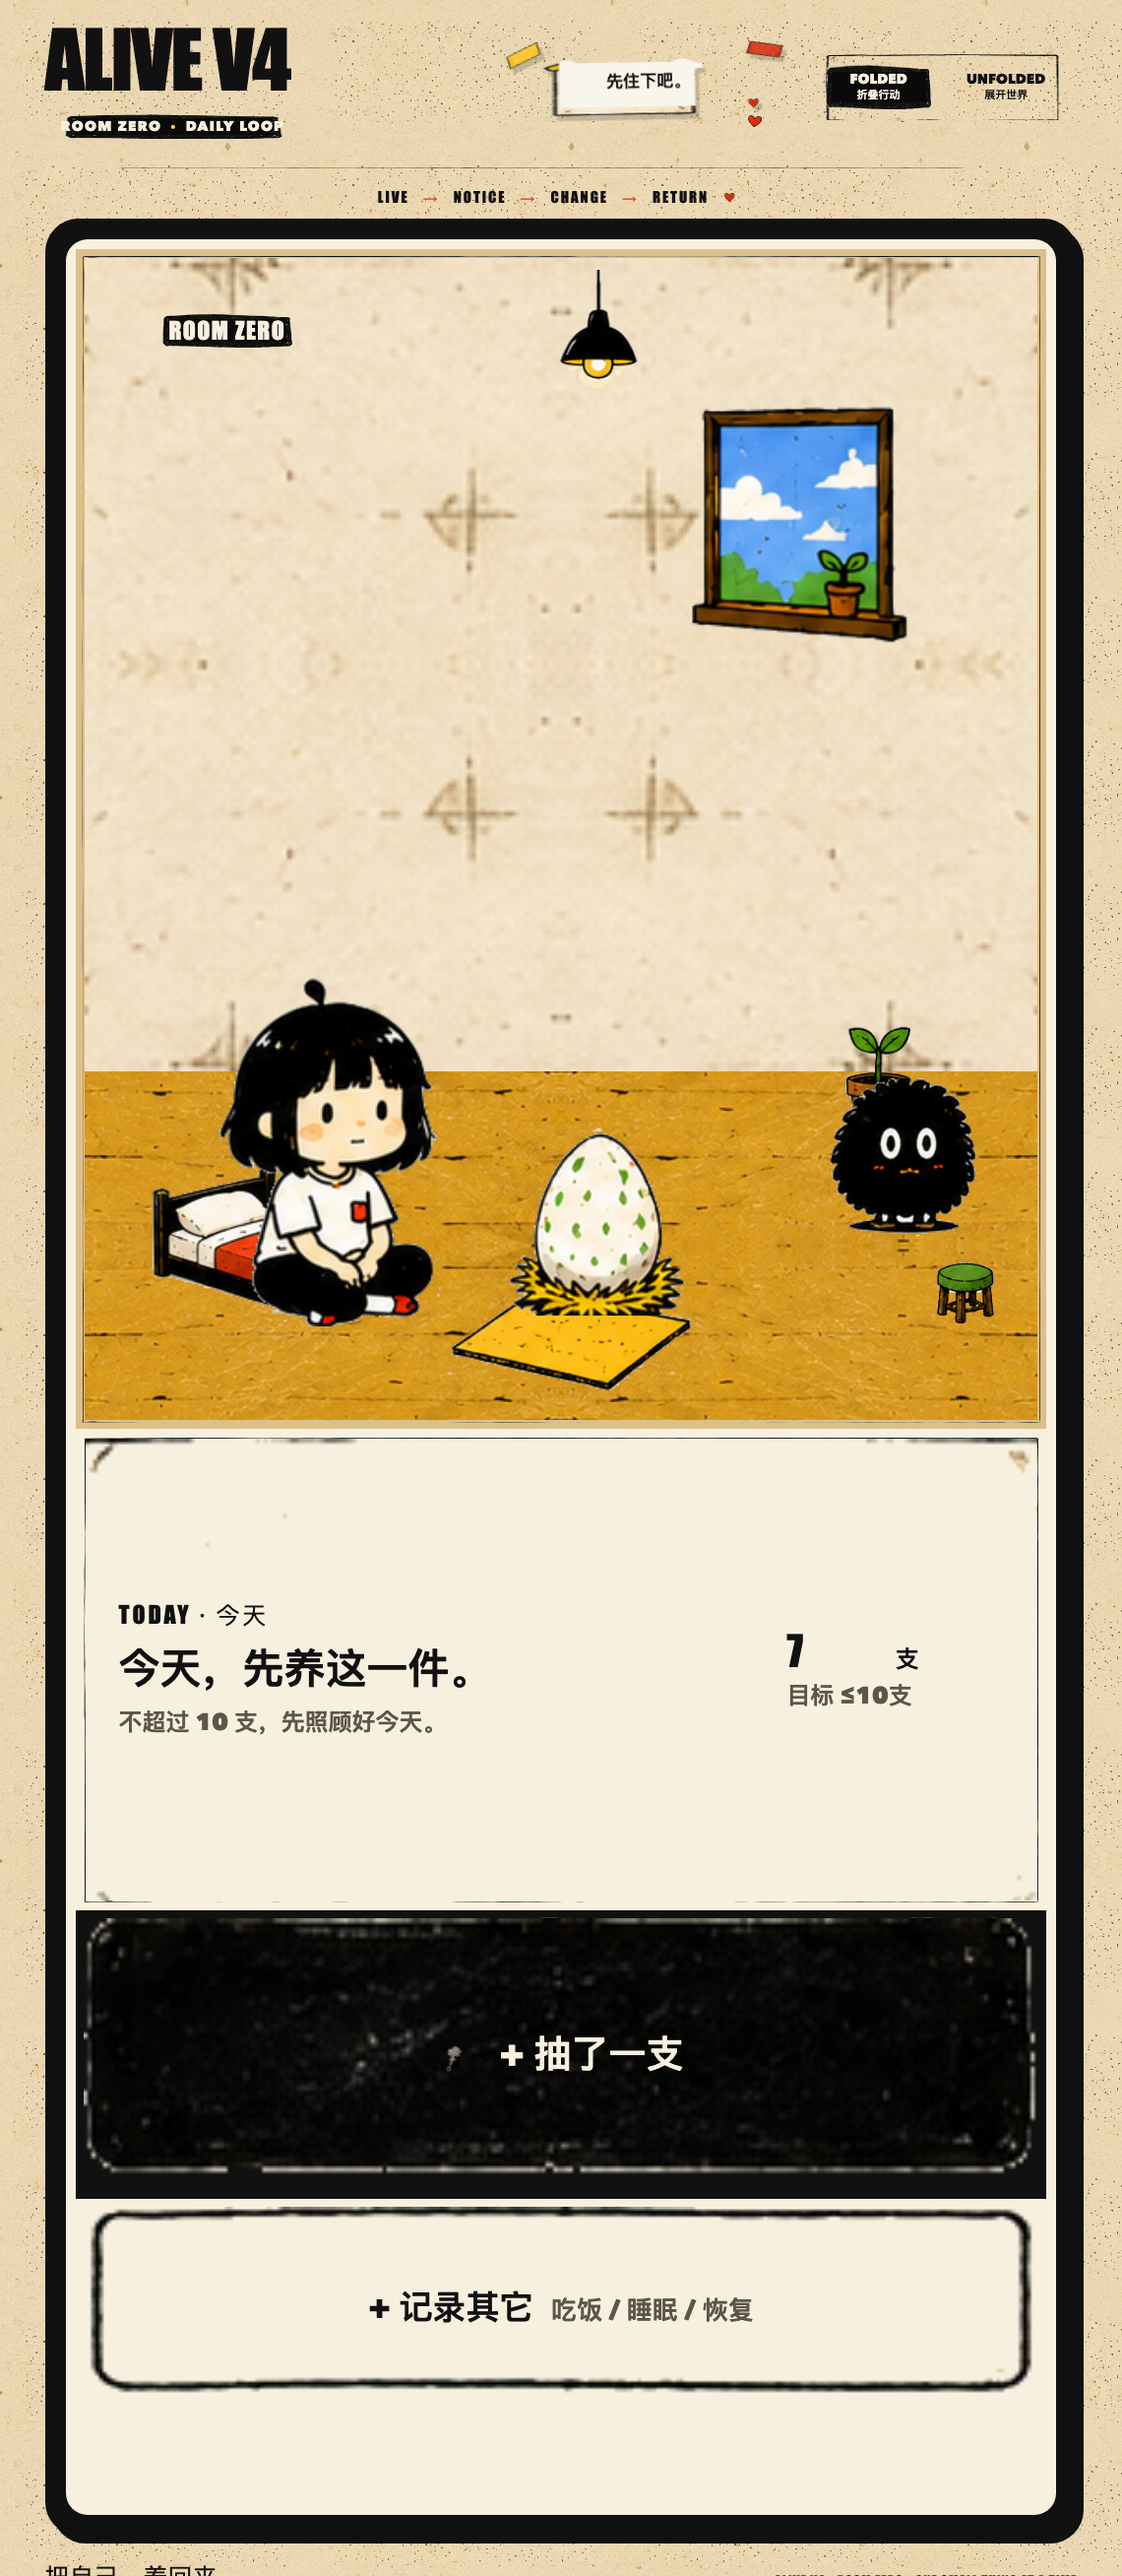
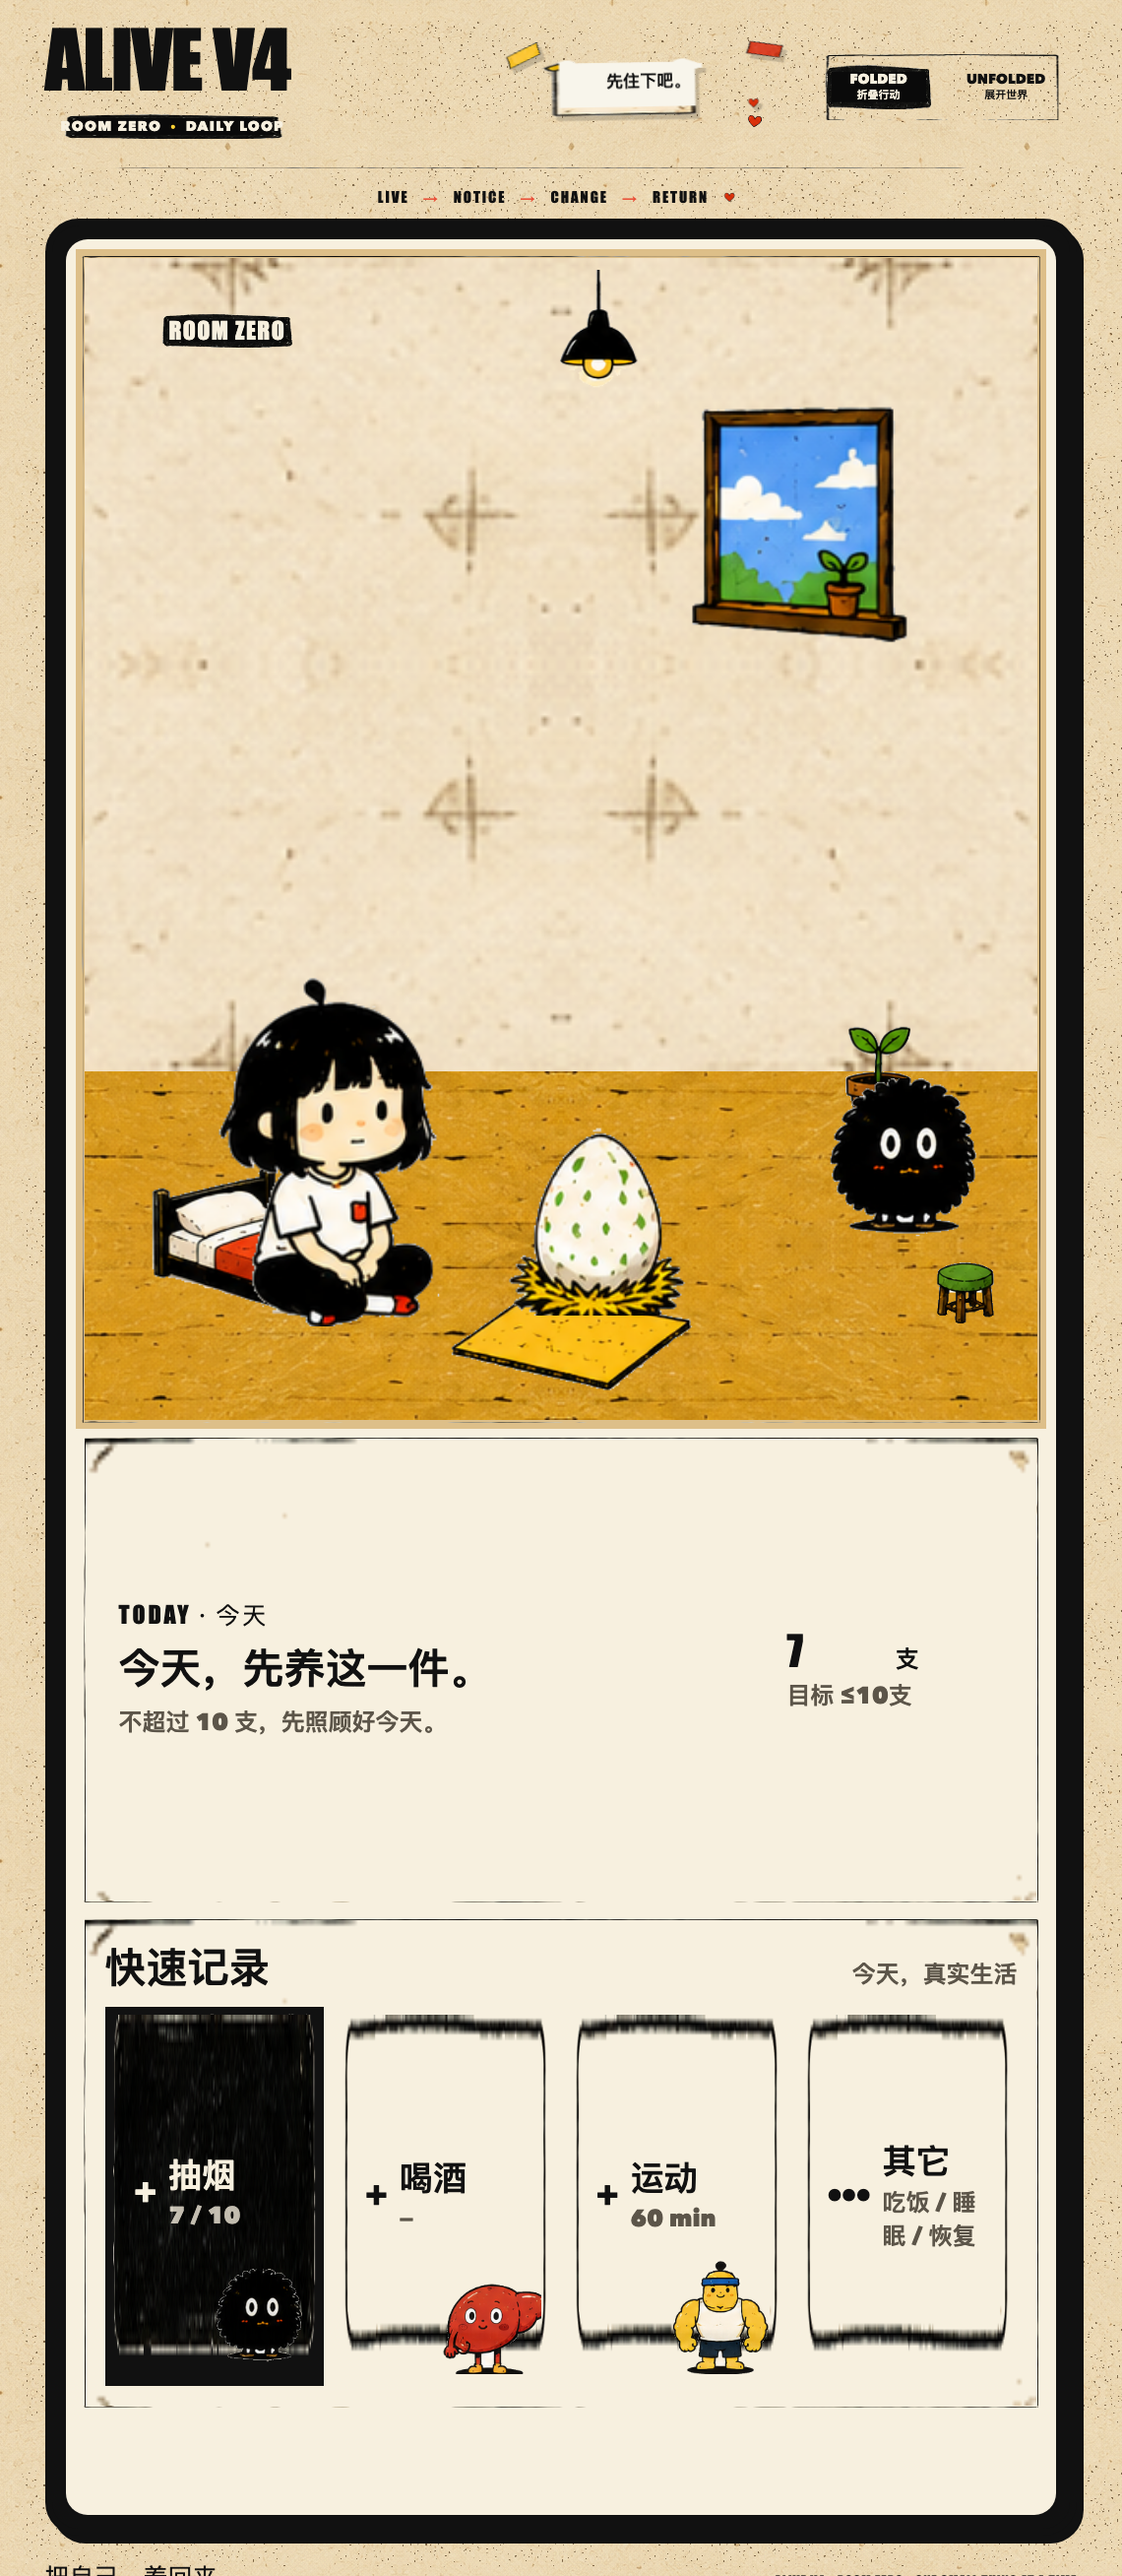
fix: refine final interaction controls

Changed region(s): [[0.0614, 0.7431, 0.9518, 0.9289]]

diff --git a/src/styles/app.css b/src/styles/app.css
@@ -92,7 +92,7 @@ img { max-width: 100%; }
 .other-record { width: 100%; margin-top: 8px; padding: 10px 12px; border: 8px solid transparent; border-image: url('../../public/assets/material/frame-button-secondary.png') 20 fill / 8px / 0 stretch; background-color: transparent; font-weight: 900; text-align: left; }
 .other-record span { margin-right: 7px; font-family: var(--font-display); font-size: 24px; } .other-record small { margin-left: 8px; color: var(--muted); font-weight: 700; }
 
-.status-column { grid-column: 2; grid-row: 1; display: grid; grid-template-rows: minmax(0, 1.35fr) minmax(0, .65fr); align-content: stretch; gap: 12px; min-width: 0; width: 100%; height: 100%; overflow: hidden; }
+.status-column { grid-column: 2; grid-row: 1; display: grid; grid-template-rows: minmax(0, 1.45fr) minmax(0, .55fr); align-content: stretch; gap: 12px; min-width: 0; width: 100%; height: 100%; overflow: hidden; }
 .status-card, .mood-card, .seed-card { min-height: 0; height: 100%; padding: 24px 28px; border: 10px solid transparent; border-image: url('../../public/assets/material/frame-panel.png') 24 fill / 10px / 0 stretch; background-color: var(--paper); }
 .status-card { display: flex; flex-direction: column; }
 .status-row { display: flex; justify-content: space-between; gap: 9px; padding: 21px 0 18px; background-image: url('../../public/assets/material/divider-handdrawn.png'); background-position: center top; background-size: 100% 8px; background-repeat: no-repeat; font-size: clamp(16px, 1vw, 25px); }
@@ -106,10 +106,13 @@ img { max-width: 100%; }
 .status-card h2 { font-size: clamp(40px, 2.4vw, 48px); }
 .mood-card h2 { margin-bottom: 10px; font-size: clamp(40px, 2.4vw, 48px); }
 .moods { display: grid; grid-template-columns: repeat(3, 1fr); gap: 9px; }
-.mood-card .moods { flex: 1; align-items: stretch; gap: 14px; }
-.mood { min-height: var(--action-mood); border: 8px solid transparent; border-image: url('../../public/assets/material/frame-button-secondary.png') 20 fill / 8px / 0 stretch; background-color: transparent; font-size: var(--type-button); font-weight: 900; }
+.mood-card .moods { flex: 0 0 auto; align-items: center; gap: 14px; }
+.mood { display: flex; flex-direction: column; justify-content: center; align-items: center; gap: 5px; width: clamp(112px, 7vw, 150px); aspect-ratio: 1; min-height: 0; padding: 12px; border: 0; border-radius: 50%; background-color: transparent; font-weight: 900; }
 .mood:hover { transform: translateY(-3px); box-shadow: 3px 3px 0 var(--ink); }
 .mood.good { background-color: #a4c870; } .mood.okay { background-color: #f5cc53; } .mood.bad { background-color: #ee806b; }
+.mood-face { font-size: clamp(46px, 4.2vw, 64px); line-height: .95; }
+.mood-label { font-size: clamp(26px, 2.2vw, 36px); line-height: 1; }
+.mood-card .seed-chip { margin-top: 12px; padding-top: 10px; }
 .seed-chip { display: flex; align-items: center; gap: 8px; margin-top: 15px; padding-top: 12px; background-image: url('../../public/assets/material/divider-handdrawn.png'); background-position: center top; background-size: 100% 8px; background-repeat: no-repeat; }
 .seed-chip img { width: 40px; height: 48px; object-fit: contain; }
 .seed-chip b { font-family: var(--font-display); font-size: var(--type-primary); } .seed-chip small { color: var(--muted); font-size: var(--type-secondary); font-weight: 750; }
@@ -118,13 +121,13 @@ img { max-width: 100%; }
 .bottom-nav { display: grid; grid-template-columns: repeat(4, 1fr); border-top: 0; background-color: var(--paper); background-image: url('../../public/assets/material/divider-handdrawn.png'); background-position: center top; background-size: 100% 12px; background-repeat: no-repeat; padding-top: 12px; }
 .bottom-nav { height: 100%; }
 [data-screen-mode="folded"] .bottom-nav { display: none; }
-.nav-item { display: flex; justify-content: center; align-items: center; gap: 18px; min-height: 120px; border: 0; border-right: 1.5px solid rgba(17,17,17,.3); background: transparent; font-size: clamp(34px, 2.5vw, 42px); font-weight: 950; }
+.nav-item { display: flex; flex-direction: column; justify-content: center; align-items: center; gap: 12px; min-height: 120px; border: 0; border-right: 1.5px solid rgba(17,17,17,.3); background: transparent; font-size: clamp(30px, 2.3vw, 38px); font-weight: 950; }
 .nav-item:last-child { border-right: 0; } .nav-item.is-active { background-color: var(--yellow); }
-.nav-icon { width: 26px; height: 26px; display: inline-block; border: 3px solid var(--ink); background: var(--paper); } .nav-icon.house { transform: rotate(45deg); } .nav-icon.discover { border-radius: 50%; } .nav-icon.story { border-radius: 3px 12px 3px 12px; } .nav-icon.me { border-radius: 50%; }
+.nav-icon { width: 46px; height: 46px; display: inline-block; border: 4px solid var(--ink); background: var(--paper); } .nav-icon.house { transform: rotate(45deg); } .nav-icon.discover { border-radius: 50%; } .nav-icon.story { border-radius: 5px 18px 5px 18px; } .nav-icon.me { border-radius: 50%; }
 .footer-caption { display: flex; justify-content: space-between; gap: 20px; align-items: baseline; padding-top: 24px; font-family: var(--font-display); } .footer-caption span { font-size: 25px; } .footer-caption small { letter-spacing: .07em; }
 
 [data-mode="folded"] .unfolded-display { display: none; }
-[data-mode="folded"] .folded-display { display: grid; grid-template-rows: var(--screen-folded-room-fr) var(--screen-folded-focus-fr) var(--screen-folded-primary-fr) var(--screen-folded-secondary-fr); gap: 0; min-height: 0; height: 100%; padding: 10px 10px var(--screen-folded-safe); align-items: stretch; }
+[data-mode="folded"] .folded-display { display: grid; grid-template-rows: var(--screen-folded-room-fr) var(--screen-folded-focus-fr) var(--screen-folded-actions-fr); gap: 0; min-height: 0; height: 100%; padding: 10px 10px var(--screen-folded-safe); align-items: stretch; }
 [data-mode="folded"] .folded-scene { min-height: 0; height: 100%; }
 [data-mode="folded"] .folded-scene .room-scene { width: 100%; height: 100%; aspect-ratio: auto; max-height: none; }
 [data-mode="folded"] .folded-scene .room-label { top: 4%; left: 7%; }
@@ -154,6 +157,17 @@ img { max-width: 100%; }
 [data-mode="folded"] .folded-focus .focus-meter small { grid-column: 1 / -1; color: var(--muted); font-size: var(--type-secondary); font-weight: 800; }
 [data-mode="folded"] .focus-copy p { font-size: var(--type-secondary); }
 [data-mode="folded"] .focus-meter { display: block; flex-basis: 200px; }
+[data-mode="folded"] .folded-actions { display: flex; flex-direction: column; justify-content: flex-start; min-height: 0; height: 100%; margin-top: 0; padding: 18px 20px 20px; }
+[data-mode="folded"] .folded-actions .section-heading { margin-bottom: 10px; }
+[data-mode="folded"] .folded-actions .section-heading h2 { font-size: clamp(42px, 3.2vw, 48px); }
+[data-mode="folded"] .folded-actions .quick-grid { flex: 1; grid-template-columns: repeat(4, minmax(0, 1fr)); gap: 12px; min-height: 0; align-items: stretch; }
+[data-mode="folded"] .folded-actions .record-card { height: 100%; min-height: 0; padding: 20px 22px; font-size: clamp(30px, 3vw, 38px); align-content: center; }
+[data-mode="folded"] .folded-actions .record-plus { margin-right: 12px; font-size: var(--type-primary); }
+[data-mode="folded"] .folded-actions .record-value { font-size: clamp(24px, 2.1vw, 30px); }
+[data-mode="folded"] .folded-actions .record-card img { right: 6px; bottom: 4px; width: 108px; max-height: 118px; opacity: .94; }
+[data-mode="folded"] .folded-actions .record-smoke { color: var(--paper); border-top: 0; border-image: url('../../public/assets/material/frame-cta-black.png') 20 fill / 8px / 0 stretch; background-color: var(--ink); }
+[data-mode="folded"] .folded-actions .record-smoke .record-value { color: rgba(247, 240, 223, .78); }
+[data-mode="folded"] .folded-actions .record-smoke:hover { color: var(--ink); background-color: var(--yellow); }
 .primary-action, .secondary-action { width: 100%; margin-top: 0; border: 0; font-weight: 950; }
 .primary-action { display: flex; justify-content: center; align-items: center; gap: 16px; height: 100%; min-height: var(--action-primary); padding: 16px 22px; color: var(--paper); background-color: var(--ink); border: 8px solid transparent; border-image: url('../../public/assets/material/frame-cta-black.png') 20 fill / 8px / 0 stretch; font-size: clamp(38px, 3.2vw, 46px); align-self: stretch; }
 .primary-action img { width: 46px; height: 46px; object-fit: contain; }
@@ -174,7 +188,7 @@ img { max-width: 100%; }
   .screen-bezel { border-radius: 14px; } .screen-label { padding: 9px 12px; font-size: 11px; }
   .folded-display { padding: 7px; } [data-mode="folded"] .folded-scene .room-scene { width: 100%; max-height: none; }
   .focus-panel { padding: 22px; min-height: 220px; } .focus-copy h2 { font-size: var(--type-section-title); }
-  .bottom-nav .nav-item { min-height: 120px; font-size: clamp(28px, 5vw, 34px); gap: 14px; } .nav-icon { width: 22px; height: 22px; border-width: 3px; }
+  .bottom-nav .nav-item { min-height: 120px; font-size: clamp(28px, 5vw, 34px); gap: 8px; } .nav-icon { width: 34px; height: 34px; border-width: 3px; }
   .footer-caption { display: block; text-align: center; } .footer-caption span { display: block; margin-bottom: 7px; font-size: 22px; }
   .loop-strip { gap: 7px; font-size: 11px; }
 }

diff --git a/src/layout/shell.js b/src/layout/shell.js
@@ -47,10 +47,10 @@ function actionCard(item, records) {
   return `<button class="record-card record-${item.id} accent-${item.accent}" data-action="${item.id}" type="button"><span class="record-plus">+</span><span class="record-label">${item.label}</span><span class="record-value">${value}</span>${item.character ? `<img src="${item.character}" alt="">` : ''}</button>`;
 }
 
-function quickRecordBar(records) {
+function quickRecordBar(records, className = '') {
   const cards = scene.actions.slice(0, 3).map((item) => actionCard(item, records)).join('');
   const other = '<button class="record-card accent-green other-card" data-action="food" type="button"><span class="record-plus">•••</span><span class="record-label">其它</span><span class="record-value">吃饭 / 睡眠 / 恢复</span></button>';
-  return `<section class="quick-records"><div class="section-heading"><h2>快速记录</h2><span>今天，真实生活</span></div><div class="quick-grid">${cards}${other}</div></section>`;
+  return `<section class="quick-records ${className}"><div class="section-heading"><h2>快速记录</h2><span>今天，真实生活</span></div><div class="quick-grid">${cards}${other}</div></section>`;
 }
 
 function focusPanel(records, lastAction) {
@@ -64,11 +64,11 @@ function foldedFocusPanel(records, lastAction) {
 }
 
 function statusPanel(records) {
-  return `<aside class="status-column"><section class="status-card"><div class="section-heading"><h2>今日状态</h2><span>8月27日</span></div>${statusRows(records)}</section><section class="mood-card"><h2>今天怎么样？</h2><div class="moods"><button type="button" class="mood good">好</button><button type="button" class="mood okay">一般</button><button type="button" class="mood bad">不好</button></div><div class="seed-chip"><img src="${scene.assets.plant}" alt=""><span><b>2</b> LIFE SEEDS<br><small>记录会慢慢变成世界。</small></span></div></section></aside>`;
+  return `<aside class="status-column"><section class="status-card"><div class="section-heading"><h2>今日状态</h2><span>8月27日</span></div>${statusRows(records)}</section><section class="mood-card"><h2>今天怎么样？</h2><div class="moods"><button type="button" class="mood good" aria-label="好"><span class="mood-face" aria-hidden="true">🙂</span><span class="mood-label">好</span></button><button type="button" class="mood okay" aria-label="一般"><span class="mood-face" aria-hidden="true">😐</span><span class="mood-label">一般</span></button><button type="button" class="mood bad" aria-label="不好"><span class="mood-face" aria-hidden="true">☹</span><span class="mood-label">不好</span></button></div><div class="seed-chip"><img src="${scene.assets.plant}" alt=""><span><b>2</b> LIFE SEEDS<br><small>记录会慢慢变成世界。</small></span></div></section></aside>`;
 }
 
 function foldedDisplay({ records, lastAction, smokeEncountered }) {
-  return `<div class="folded-display"><div class="folded-scene">${roomScene({ smokeEncountered })}</div>${foldedFocusPanel(records, lastAction)}<button class="primary-action" data-action="smoke" type="button"><img src="${scene.assets.smokeIcon}" alt="">+ 抽了一支</button><button class="secondary-action" data-action="food" type="button">+ 记录其它 <span>吃饭 / 睡眠 / 恢复</span></button></div>`;
+  return `<div class="folded-display"><div class="folded-scene">${roomScene({ smokeEncountered })}</div>${foldedFocusPanel(records, lastAction)}${quickRecordBar(records, 'folded-actions')}</div>`;
 }
 
 function unfoldedDisplay({ records, lastAction, smokeEncountered }) {
@@ -76,7 +76,7 @@ function unfoldedDisplay({ records, lastAction, smokeEncountered }) {
 }
 
 function bottomNav() {
-  return `<nav class="bottom-nav" aria-label="主导航"><button class="nav-item is-active" type="button"><span class="nav-icon house"></span>房间</button><button class="nav-item" type="button"><span class="nav-icon discover"></span>发现</button><button class="nav-item" type="button"><span class="nav-icon story"></span>故事</button><button class="nav-item" type="button"><span class="nav-icon me"></span>我的</button></nav>`;
+  return `<nav class="bottom-nav" aria-label="主导航"><button class="nav-item is-active" type="button"><span class="nav-icon house" aria-hidden="true"></span><span class="nav-label">房间</span></button><button class="nav-item" type="button"><span class="nav-icon discover" aria-hidden="true"></span><span class="nav-label">发现</span></button><button class="nav-item" type="button"><span class="nav-icon story" aria-hidden="true"></span><span class="nav-label">故事</span></button><button class="nav-item" type="button"><span class="nav-icon me" aria-hidden="true"></span><span class="nav-label">我的</span></button></nav>`;
 }
 
 export function renderShell({ mode, records, lastAction, smokeEncountered }) {

diff --git a/index.html b/index.html
@@ -5,11 +5,11 @@
     <meta name="viewport" content="width=device-width, initial-scale=1.0, viewport-fit=cover" />
     <meta name="theme-color" content="#f4ead5" />
     <title>ALIVE V4 · Room Zero</title>
-    <link rel="stylesheet" href="./src/styles/tokens.css?v=20260830-polish1" />
-    <link rel="stylesheet" href="./src/styles/app.css?v=20260830-polish1" />
+    <link rel="stylesheet" href="./src/styles/tokens.css?v=20260830-polish2" />
+    <link rel="stylesheet" href="./src/styles/app.css?v=20260830-polish2" />
   </head>
   <body>
     <main id="app" aria-live="polite"></main>
-    <script type="module" src="./src/app.js?v=20260830-polish1"></script>
+    <script type="module" src="./src/app.js?v=20260830-polish2"></script>
   </body>
 </html>

diff --git a/src/styles/tokens.css b/src/styles/tokens.css
@@ -28,8 +28,7 @@
   --screen-folded-safe: 10%;
   --screen-folded-room-fr: 49fr;
   --screen-folded-focus-fr: 20fr;
-  --screen-folded-primary-fr: 12fr;
-  --screen-folded-secondary-fr: 9fr;
+  --screen-folded-actions-fr: 21fr;
 
   /* One resident scale system. ZhanZhan is the 1.00 reference. */
   --world-zhan: 1;
